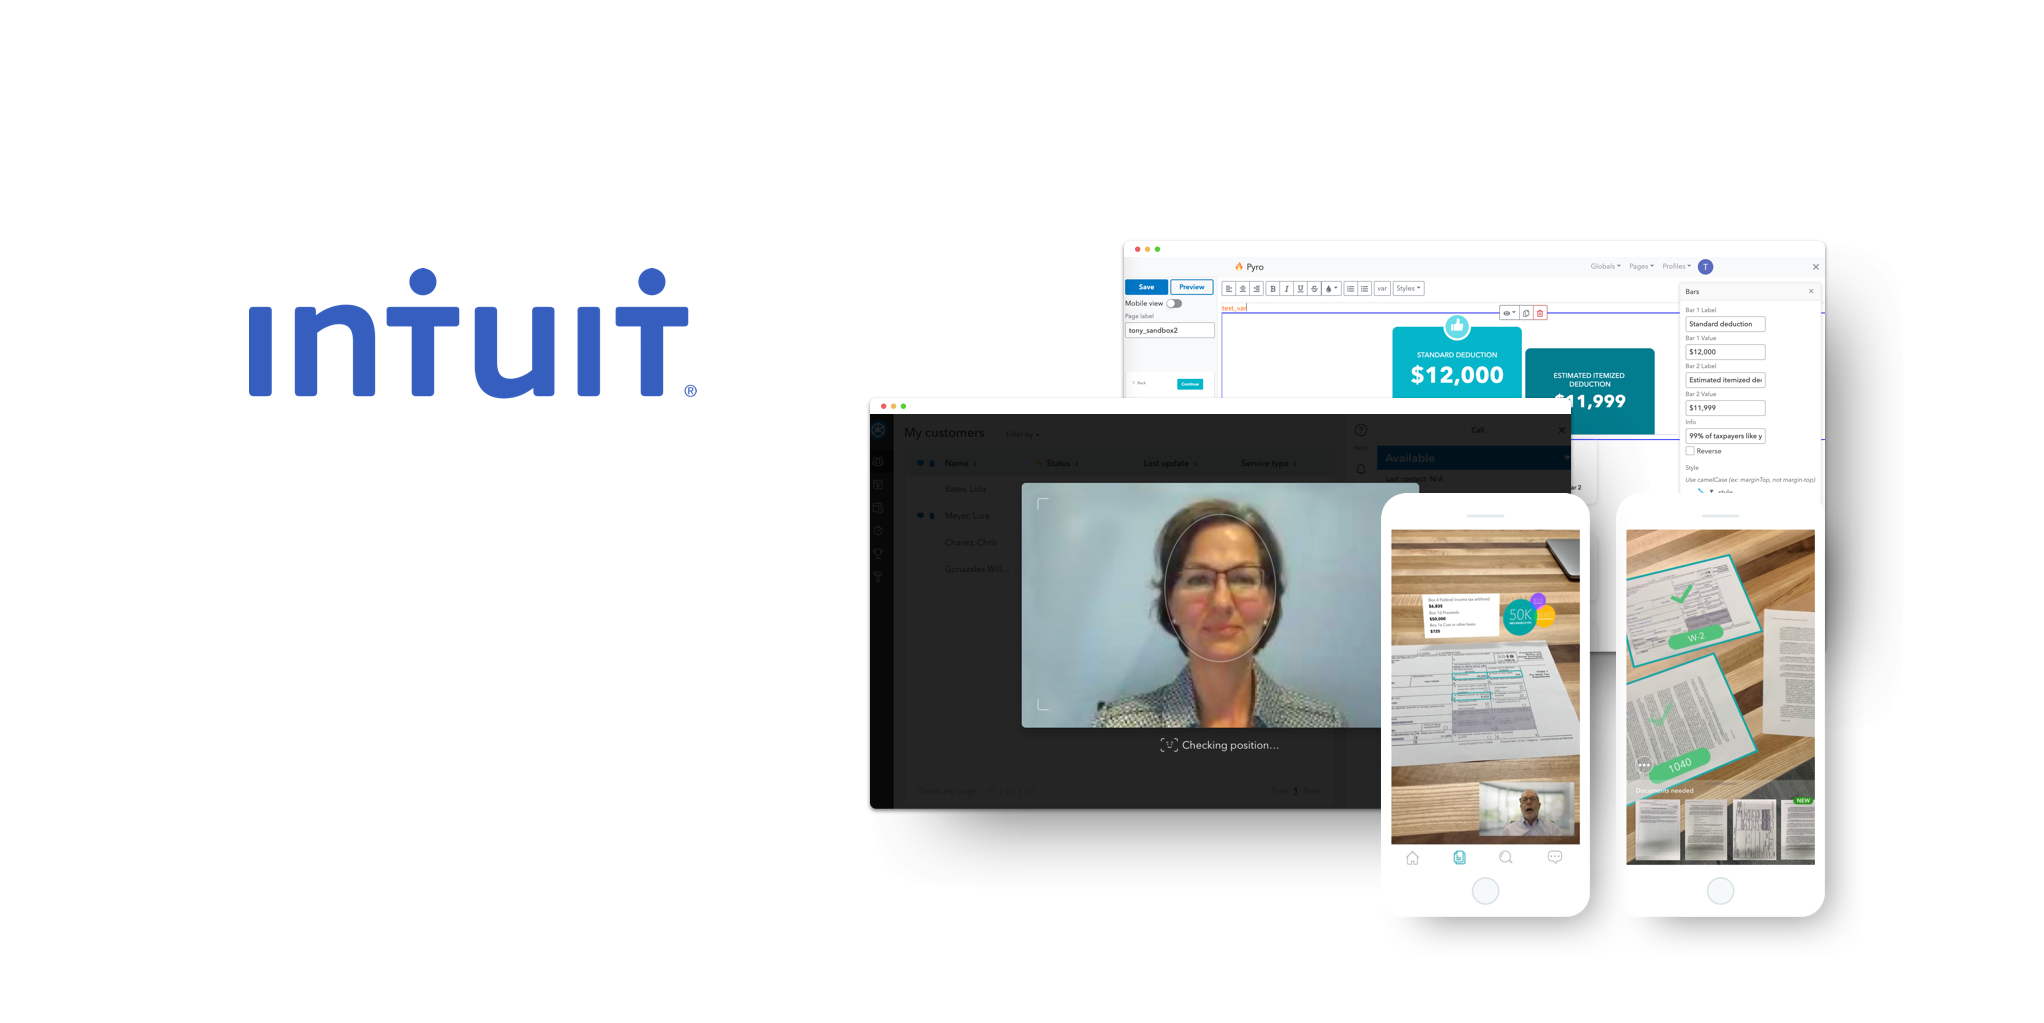
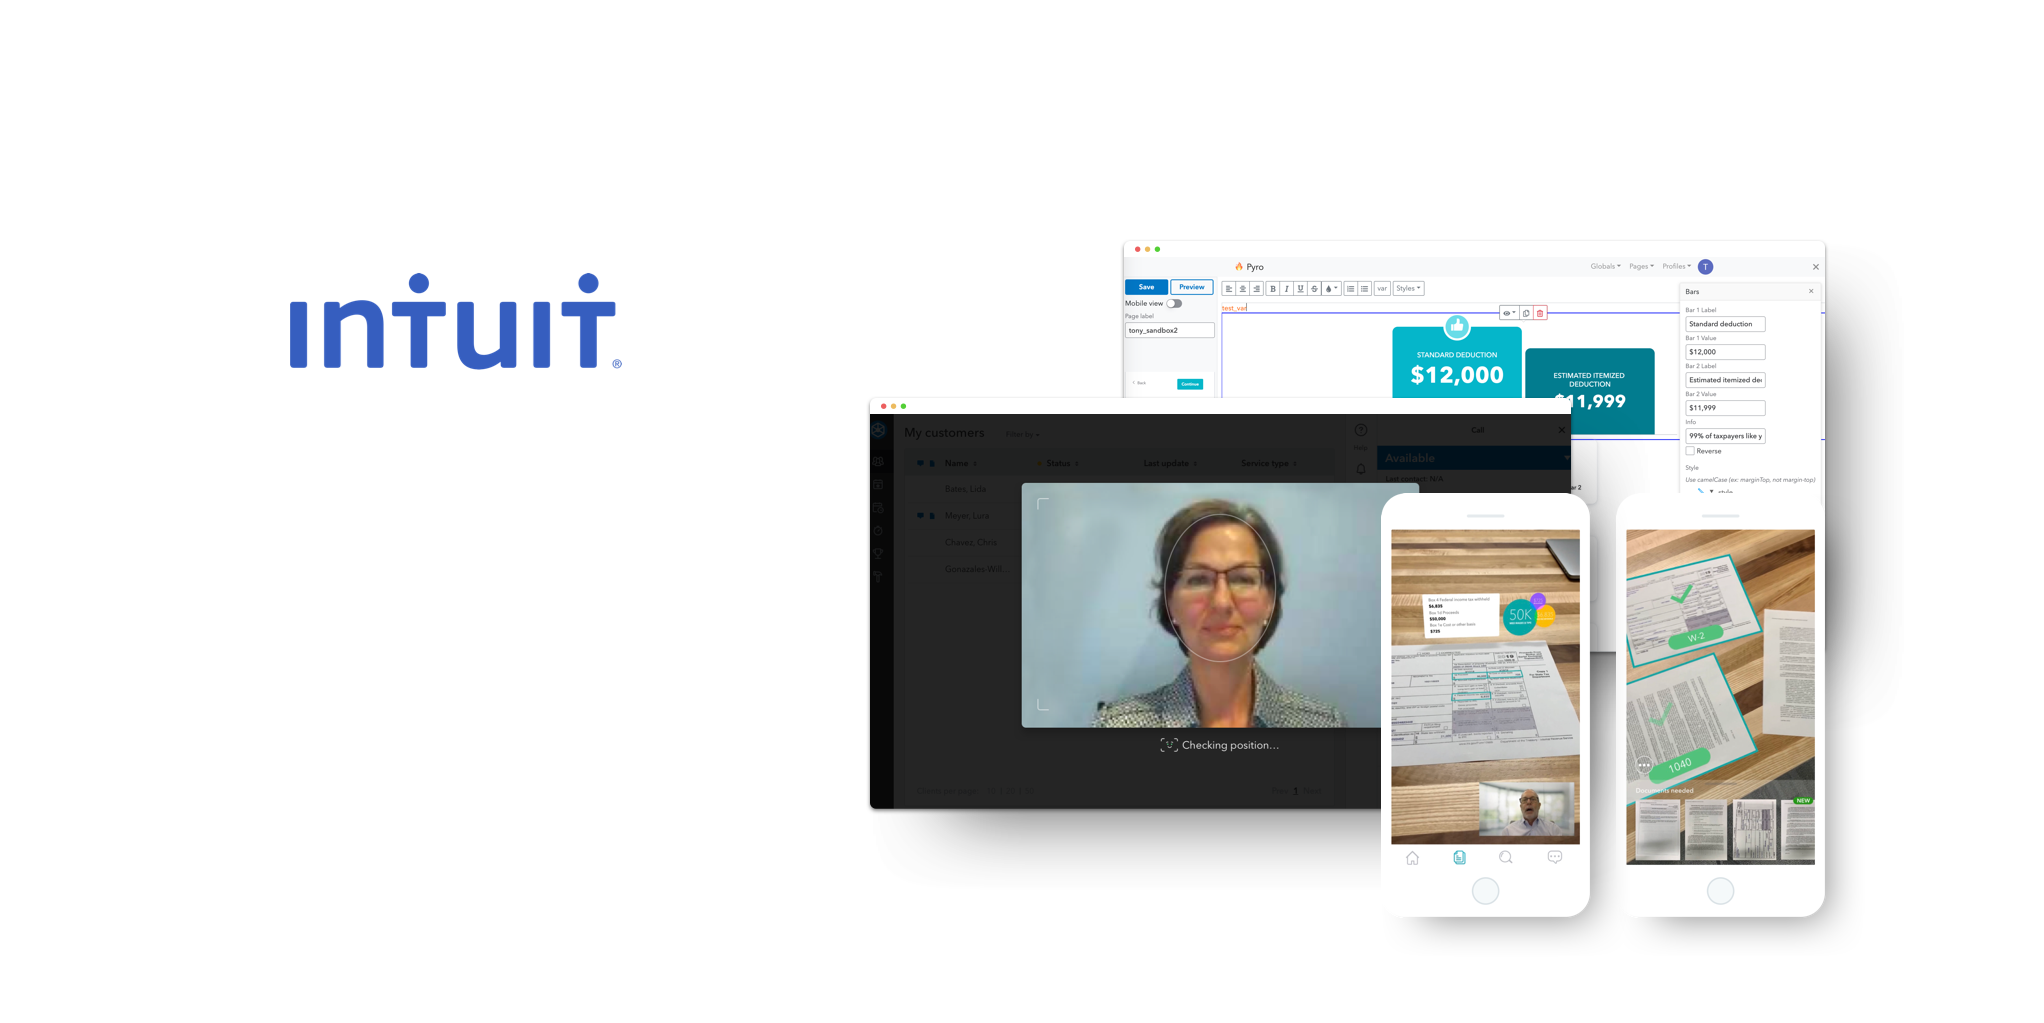
changed cover size

Changed region(s): [[0.1233, 0.2424, 0.339, 0.3939]]

diff --git a/intuit_nda.html b/intuit_nda.html
@@ -125,8 +125,8 @@
               class="lead"
               style="margin-bottom:0; word-spacing: 3px; text-align: justify;"
             >
-              I'm apart of Intuit's Design Technology team which concentrated on
-              searching for and utilizing the latest technologies to improve our
+              I'm apart of Intuit's Design Technology team which concentrates on
+              exploring and utilizing the latest technologies to improve our
               products and the design org's productivy. I focused on:
             </p>
             <ul class="fa-ul">
